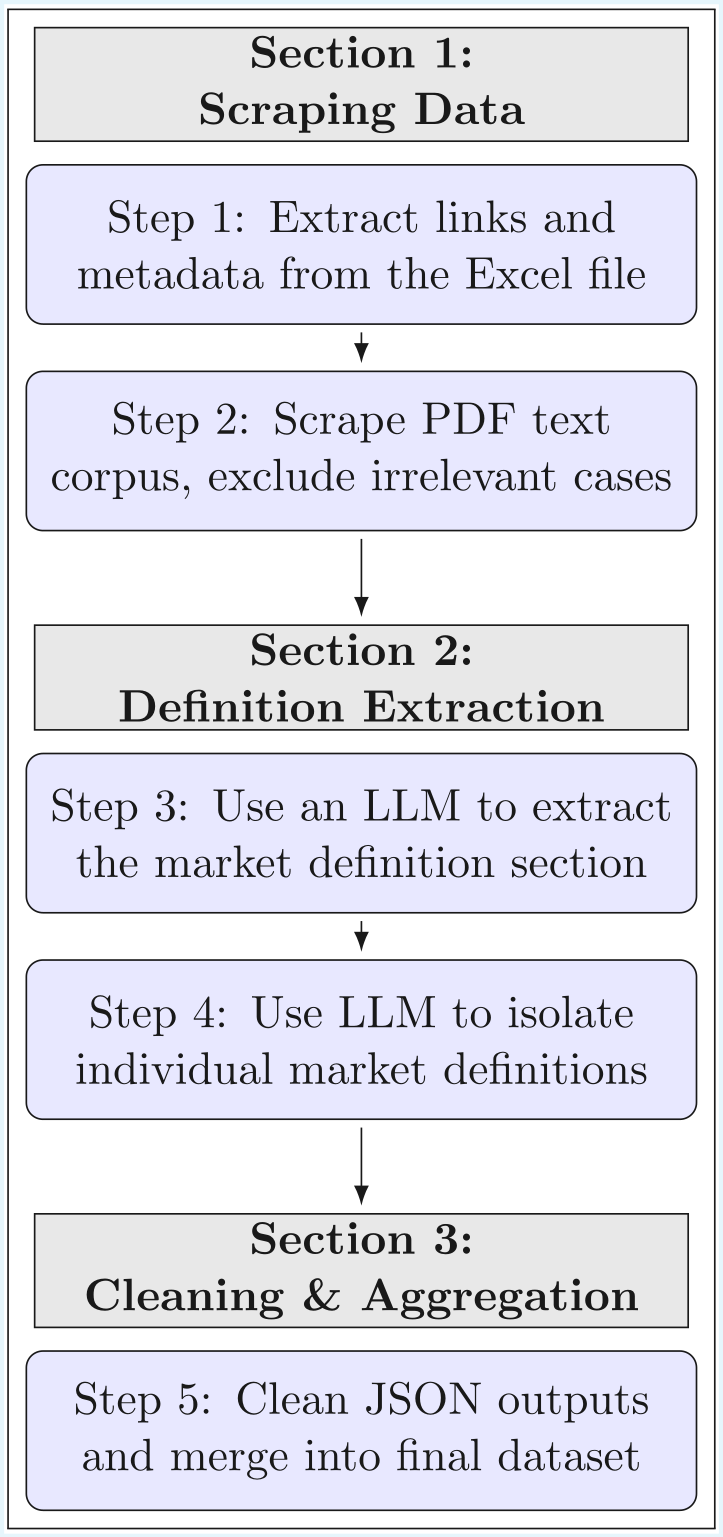
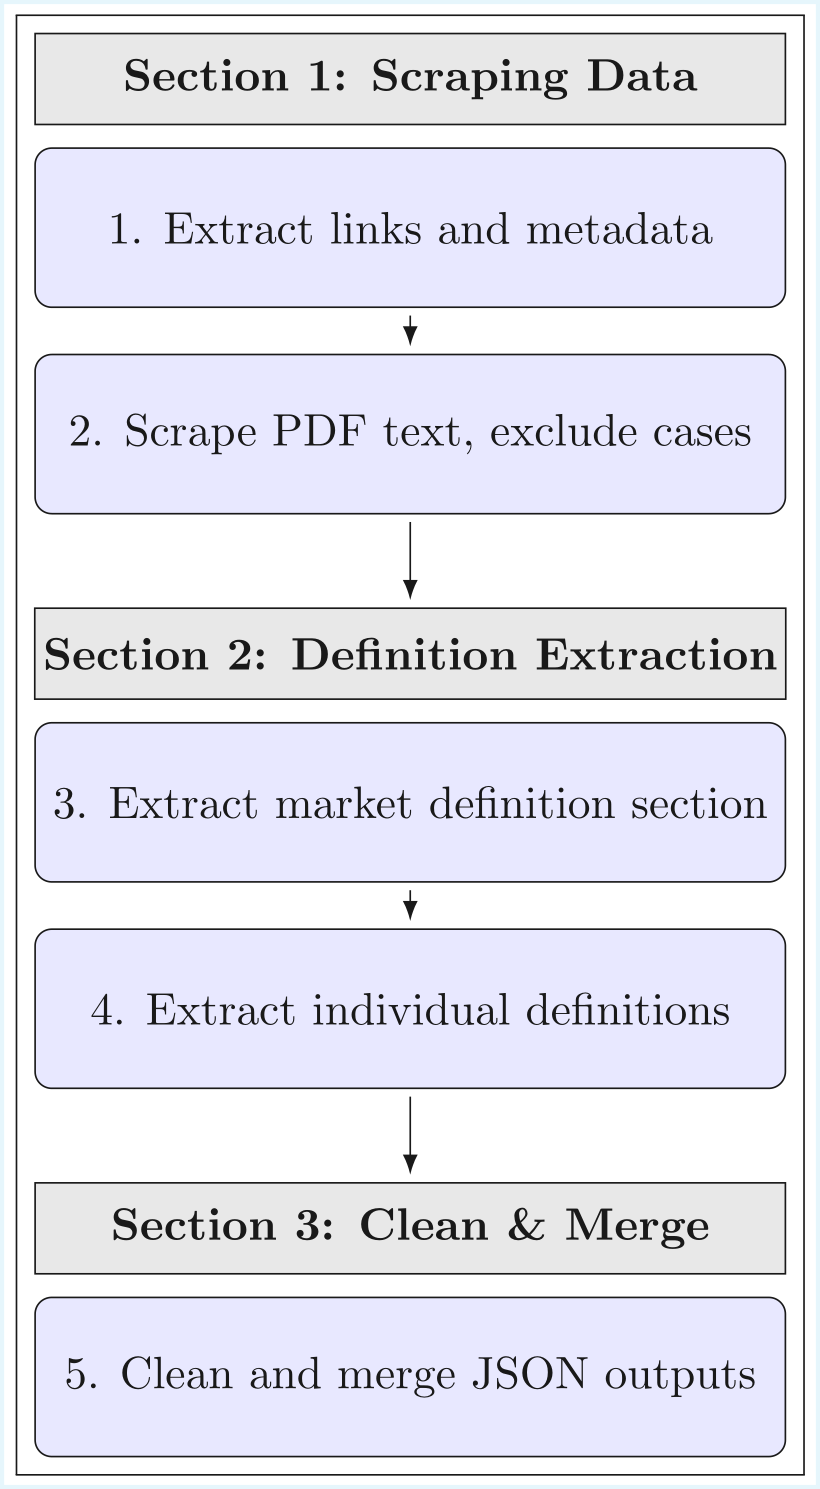
fix image formatting by decreasing width value and reshaping diagram

Changed region(s): [[0.0, 0.0, 1.0, 1.0]]

diff --git a/paper.md b/paper.md
@@ -31,16 +31,13 @@ The Commission has published over 6,000 merger and antitrust decisions [@bldr202
 
 # General workflow
 
-![Workflow Diagram of Pipeline](images/Lextract_Workflow_Diagram.png){ width=40% }
-
-The general workflow for extracting market definitions is split into 3 sections, and 5 steps. The first section involves the scraping of data, making use of regex: 1. A script processes an Excel file downloaded form the Commission's case search portal and extracts the links of decision documents and corresponding metadata (i.e. case number, year, policy area), saved in a plain text file. 2. Another script processes this file, and, using the decision document links, scrapes the decision text and convert them into a text corpus with the metadata, repeating this step for each link, while also sorting the corpus based on its length, with a break point a 80,000 characters. It is during this process that decision documents without market definitions, identified by certain phrases or a page length less than three, are excluded. 
+The general workflow for extracting market definitions is split into three sections and five steps. The first section involves the scraping of data, making use of regex: 1. A script processes an Excel file downloaded form the Commission's case search portal and extracts the links of decision documents and corresponding metadata (i.e. case number, year, policy area), saved in a plain text file. 2. Another script processes this file, and, using the decision document links, scrapes the decision text and convert them into a text corpus with the metadata, repeating this step for each link, while also sorting the corpus based on its length, with a break point a 80,000 characters. It is during this process that decision documents without market definitions, identified by certain phrases or a page length less than three, are excluded. 
 
 The second section is responsible for the semantic extraction of market definitions: 3. Google Gemini is used to identify and extract only the section of the text corpus that contains the market definition section. 4. Afterwards, the process becomes more granular, with Gemini again being used, only this time to identify and isolate each individual market definition within those sections. Each definition is then tagged with a topic and saved in a structured JSON file, where each object contains all elements of the aforementioned metadata, a topic, and the market definition. 
 
 The third and final section improves the presentation of the data: 5. Each separate JSON file is cleaned to remove extraneous characters and then aggregated into a single file, which can then be used for research and analysis. By structuring the workflow this way, each processed case is consistently analyzed, reducing variability and improving accuracy. Lextract’s code also maintains a high level of accuracy, substantiated by a comprehensive test suite with 94% code coverage.
 
-While this pipeline makes use of Google Gemini, it is model-agnostic and, if properly refactored, could utilize any LLM, including commercially hosted models like OpenAI’s or locally deployed ones such as LLaMA, Mistral, or DeepSeek. However, accuracy and consistency will vary significantly deepening on model size and capabilities. Generally, smaller models, especially local ones without a sufficient context length or reasoning ability, will tend to hallucinate outputs, misidentify sections, or produce partial definitions.
-
+![Workflow Diagram of Pipeline](images/Lextract_Workflow_Diagram.png){ width=30% }
 
 # Research applications
 
@@ -48,7 +45,10 @@ Lextract powers the database of [JurisMercatus](https://jurismercatus.vercel.app
 
 # Limitations
 
-It should be noted that this system, as with all systems, is not perfect and contains inaccuracies. First, with regards to step three, as a result of the previously mentioned fact that the heading used to identify the market definition section is inconsistently phrased, what constitutes the market definition is only heuristically defined, potentially leading to inaccuracies, especially when the language of decision texts deviate significantly from expected pattern. Secondly, the quality and reliability of the extraction is limited to that of the input. In other words, should the input consist of missing pages or unconventional language, the model may be confused, leading to partial or inaccurate results. Furthermore, due to the nature of LLMs, it is possible, though unlikely, for output to be hallucinated or metadata to be misattributed. Lastly, though it is understood that decisions are adjudicated in many different languages, with the European Commission using multiple itself, the pipeline assumes that all decisions are provided in English and excludes all others, thereby limiting its application to other languages, without at least a moderate amount of modification.
+It should be noted that this system, as with all systems, is not perfect and contains inaccuracies. First, with regards to step three, as a result of the previously mentioned fact that the heading used to identify the market definition section is inconsistently phrased, what constitutes the market definition is only heuristically defined, potentially leading to inaccuracies, especially when the language of decision texts deviate significantly from expected pattern. Secondly, the quality and reliability of the extraction is limited to that of the input. In other words, should the input consist of missing pages or unconventional language, the model may be confused, leading to partial or inaccurate results. Additionally, though it is understood that decisions are adjudicated in many different languages, with the European Commission using multiple itself, the pipeline assumes that all decisions are provided in English and excludes all others, thereby limiting its application to other languages, without at least a moderate amount of modification.
+
+Lastly, while this pipeline makes use of Google Gemini, it is model-agnostic and, if properly refactored, could utilize any LLM, including commercially hosted models like OpenAI’s or locally deployed ones such as LLaMA, Mistral, or DeepSeek. However, accuracy and consistency will vary significantly depending on model size and capabilities. Generally, smaller models, especially local ones without a sufficient context length or reasoning ability, will tend to hallucinate outputs, misidentify sections, or produce partial definitions.
+
 
 # Acknowledgements
 
